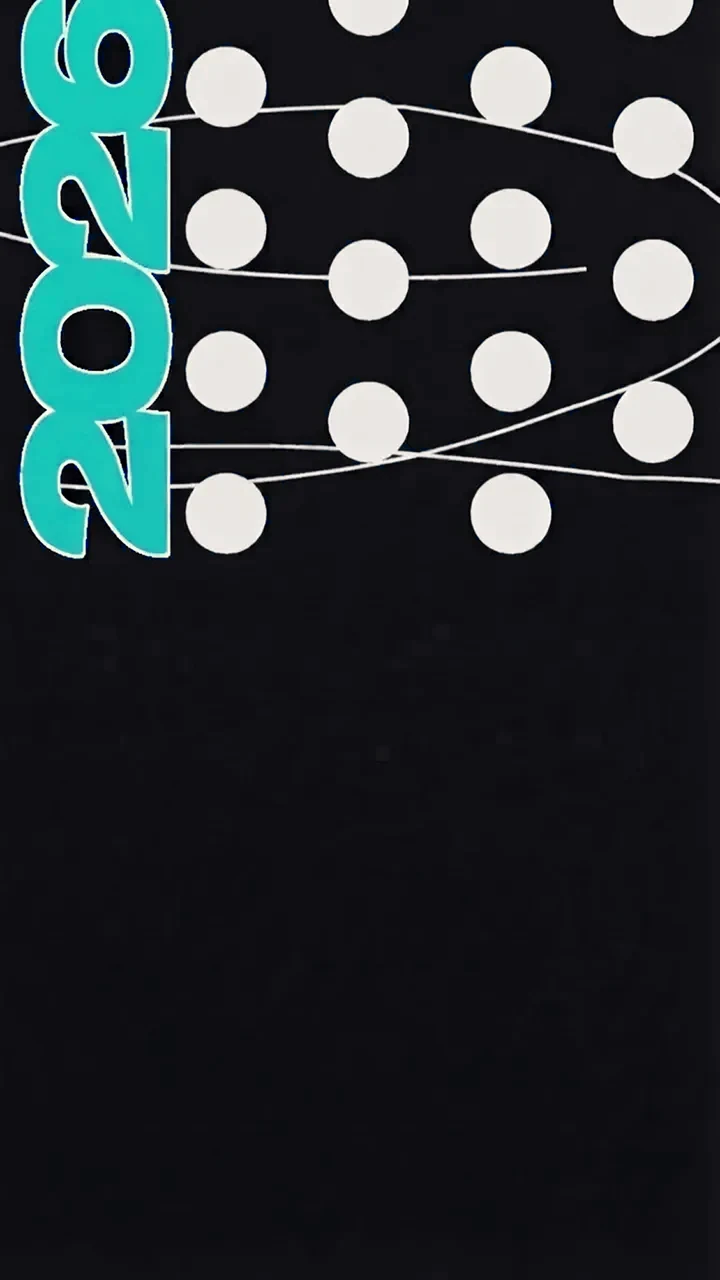
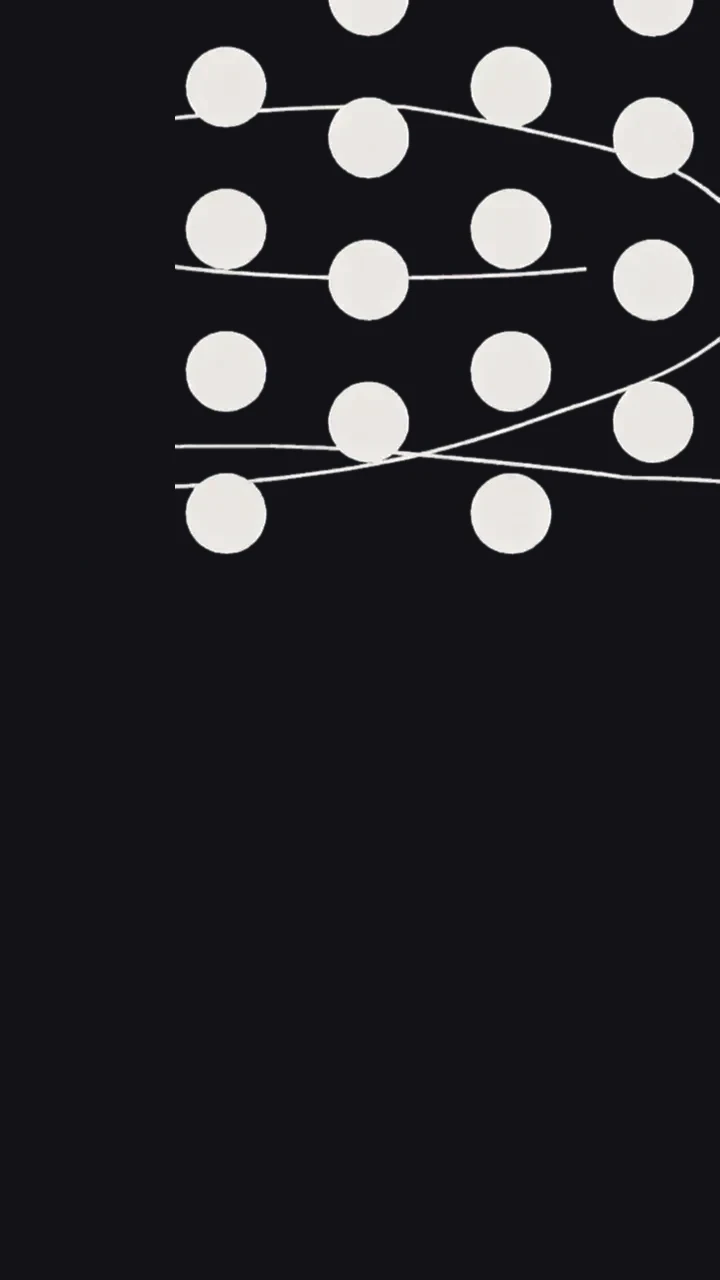
feat: cleaned up intro card

Changed region(s): [[0.0, 0.0, 0.2444, 0.4375]]

diff --git a/frontend/src/app/recap/cards/tops-card.css b/frontend/src/app/recap/cards/tops-card.css
@@ -1,17 +1,5 @@
-/* Narrow: the year runs up the left edge beside the chart; lists below. It's the body face at
-   its heaviest, stretched along its baseline with the digits pulled together, teal on a white
-   outline. The outline is a copy behind (::before), so it merges where the digits overlap. */
-.year {
-  top: 0; left: 1.6%; height: 43.5%;
-  writing-mode: vertical-rl; transform: rotate(180deg); text-align: center;
-  font: 600 14.5cqw/0.8 var(--recap-font-card); letter-spacing: -0.07em; scale: 1 1.5;
-  color: var(--recap-lime); isolation: isolate;
-}
-.year::before {
-  content: attr(data-year);
-  position: absolute; inset: 0; z-index: -1;
-  color: var(--recap-paper); -webkit-text-stroke: 0.8cqw var(--recap-paper);
-}
+/* Narrow: the year runs up the left edge beside the chart, slim enough to clear it; lists below. */
+.year { top: 0; left: 1.6%; height: 43.5%; font-size: 14.5cqw; line-height: 0.8; scale: 1 1.5; }
 .square { top: 3%; left: 13.6%; width: 72.9%; height: 41%; background: var(--recap-panel); border: 1px solid var(--recap-line); border-radius: var(--radius-lg); overflow: hidden; }
 .square svg { position: absolute; inset: 0; width: 100%; height: 100%; display: block; }
 .sq-head { position: absolute; left: 5%; top: 5%; display: flex; flex-direction: column; align-items: flex-start; gap: 1.6cqw; }
@@ -33,13 +21,8 @@ li { animation: rise 0.4s cubic-bezier(0.2, 0.7, 0.2, 1) both; animation-delay: 
 
 /* Desktop: the year across the top right, the chart under it, the lists on the left. */
 @container viewer (min-width: 640px) {
-  .year {
-    /* Right-aligned with the chart's edge; stretched from that edge so it stays put. */
-    top: 3%; left: auto; right: 5cqw; height: auto;
-    writing-mode: horizontal-tb; transform: none; white-space: nowrap; scale: 1.18 1; transform-origin: right top;
-    font-size: 13.6cqw; line-height: 1;
-  }
-  .year::before { -webkit-text-stroke-width: 0.6cqw; }
+  /* Right-aligned with the chart's edge. */
+  .year { top: 3%; left: auto; right: 5cqw; height: auto; font-size: 13.6cqw; line-height: 1; scale: 1.18 1; }
   .square { left: auto; right: 5cqw; top: 31%; width: auto; height: 60%; aspect-ratio: 1; }
   .sq-head { gap: 0.8cqw; }
   .sq-label { font-size: max(12px, 1.3cqw); }

diff --git a/frontend/src/app/recap/cards/intro-card.css b/frontend/src/app/recap/cards/intro-card.css
@@ -1,19 +1,24 @@
 :host { --recap-art: url('/assets/recap/intro-narrow.webp'); }
 
+/* The year runs up the left edge, where the art's strings come out from behind it. */
+.year { top: 0; left: 2.6%; height: 43.5%; font-size: 21cqw; line-height: 1; scale: 1 1.18; }
+
 .copy { left: 8%; right: 6%; top: 49%; display: grid; gap: 3cqw; }
 .kicker { font: 600 3.6cqw/1 var(--recap-font-card); letter-spacing: 0.14em; text-transform: uppercase; color: var(--recap-lime); }
 h2 { margin: 0; font-size: 8.4cqw; line-height: 1.08; }
 h2 span { display: block; white-space: nowrap; }
 h2 .lime { color: var(--recap-lime); }
 .sub { margin: 0; font-size: 4.1cqw; line-height: 1.4; color: var(--recap-dim); max-width: 32em; }
-.tap { bottom: 5%; left: 8%; font: 600 3.3cqw/1 var(--recap-font-card); letter-spacing: 0.08em; text-transform: uppercase; color: var(--recap-dim); }
+.tap { bottom: 5%; left: 8%; font: 500 3.6cqw/1 var(--recap-font-card); color: var(--recap-dim); }
 
-/* Desktop: the art rotated, "2026" across the top right; copy on the empty left. */
+/* Desktop: the art rotated, the year across the top right where the closing card has it, its
+   strings hanging below; copy on the empty left. */
 @container viewer (min-width: 640px) {
   :host { --recap-art: url('/assets/recap/intro-wide.webp'); }
+  .year { top: 3%; left: auto; right: 5cqw; height: auto; font-size: 13.6cqw; scale: 1.18 1; }
   .copy { left: 6cqw; right: auto; width: 46cqw; top: 50%; transform: translateY(-50%); gap: 1.8cqw; }
   .kicker { font-size: 1.4cqw; }
   h2 { font-size: 4.3cqw; }
   .sub { font-size: 1.7cqw; max-width: 40cqw; }
-  .tap { left: 6cqw; bottom: 8%; font-size: max(12px, 1.3cqw); }
+  .tap { left: 6cqw; bottom: 8%; font-size: max(13px, 1.4cqw); }
 }

diff --git a/frontend/src/app/recap/cards/intro-card.ts b/frontend/src/app/recap/cards/intro-card.ts
@@ -1,16 +1,17 @@
 import { Component, computed, input } from '@angular/core';
-import { monthName, monthShort } from '../recap-format';
+import { monthName, monthShort, monthYear } from '../recap-format';
 
-/** Card 1: which month this is, over the dotted "year" art. */
+/** Card 1: which month this is, over the dotted "year" art, the year hung at its top. */
 @Component({
     selector: 'app-recap-intro-card',
     template: `
+    <div class="abs year" data-a="drop" style="--i:0" [attr.data-year]="year()" aria-hidden="true">{{ year() }}</div>
     <div class="abs copy">
       <div class="kicker" data-a style="--i:0">Leapfolio Recap · {{ short() }}</div>
       <h2 class="display" data-a style="--i:1"><span>Your</span><span class="lime">{{ name() }},</span><span>recapped.</span></h2>
       <p class="sub" data-a style="--i:3">{{ sub() }}</p>
     </div>
-    <div class="abs tap" data-a style="--i:5">Click to start →</div>`,
+    <div class="abs tap" data-a style="--i:5">Click to start</div>`,
     styleUrls: ['./card.css', './intro-card.css']
 })
 export class RecapIntroCardComponent {
@@ -20,6 +21,7 @@ export class RecapIntroCardComponent {
 
   readonly name = computed(() => monthName(this.month()));
   readonly short = computed(() => monthShort(this.month()));
+  readonly year = computed(() => monthYear(this.month()));
   readonly sub = computed(() => this.quiet()
     ? 'No trades this month, so here’s how what you held did, and how it stacked up against the market.'
     : 'What you traded, what paid off, and how you did against the market.');

diff --git a/frontend/src/app/recap/cards/card.css b/frontend/src/app/recap/cards/card.css
@@ -62,6 +62,31 @@
   white-space: nowrap;
 }
 
+/* The year on the intro and closing cards: the body face at its heaviest, stretched along its
+   baseline with the digits pulled together, teal on a white outline. The outline is a copy
+   behind (::before, from data-year), so it merges where the digits overlap. Narrow, it runs up
+   the card's left edge; each card sets its place, size and stretch. */
+.year {
+  writing-mode: vertical-rl;
+  transform: rotate(180deg);
+  text-align: center;
+  white-space: nowrap;
+  font-family: var(--recap-font-card);
+  font-weight: 600;
+  letter-spacing: -0.07em;
+  color: var(--recap-lime);
+  isolation: isolate;
+}
+
+.year::before {
+  content: attr(data-year);
+  position: absolute;
+  inset: 0;
+  z-index: -1;
+  color: var(--recap-paper);
+  -webkit-text-stroke: 0.8cqw var(--recap-paper);
+}
+
 /* The brand footer (app-recap-foot); cards move it where their art leaves room. */
 .foot {
   position: absolute;
@@ -116,6 +141,15 @@
 
 @container viewer (min-width: 640px) {
   .empty-note { font-size: 2.1cqw; }
+
+  /* Across the top right, stretched from its right edge so it stays put. */
+  .year {
+    writing-mode: horizontal-tb;
+    transform: none;
+    transform-origin: right top;
+  }
+
+  .year::before { -webkit-text-stroke-width: 0.6cqw; }
 
   .foot {
     left: 3cqw;
